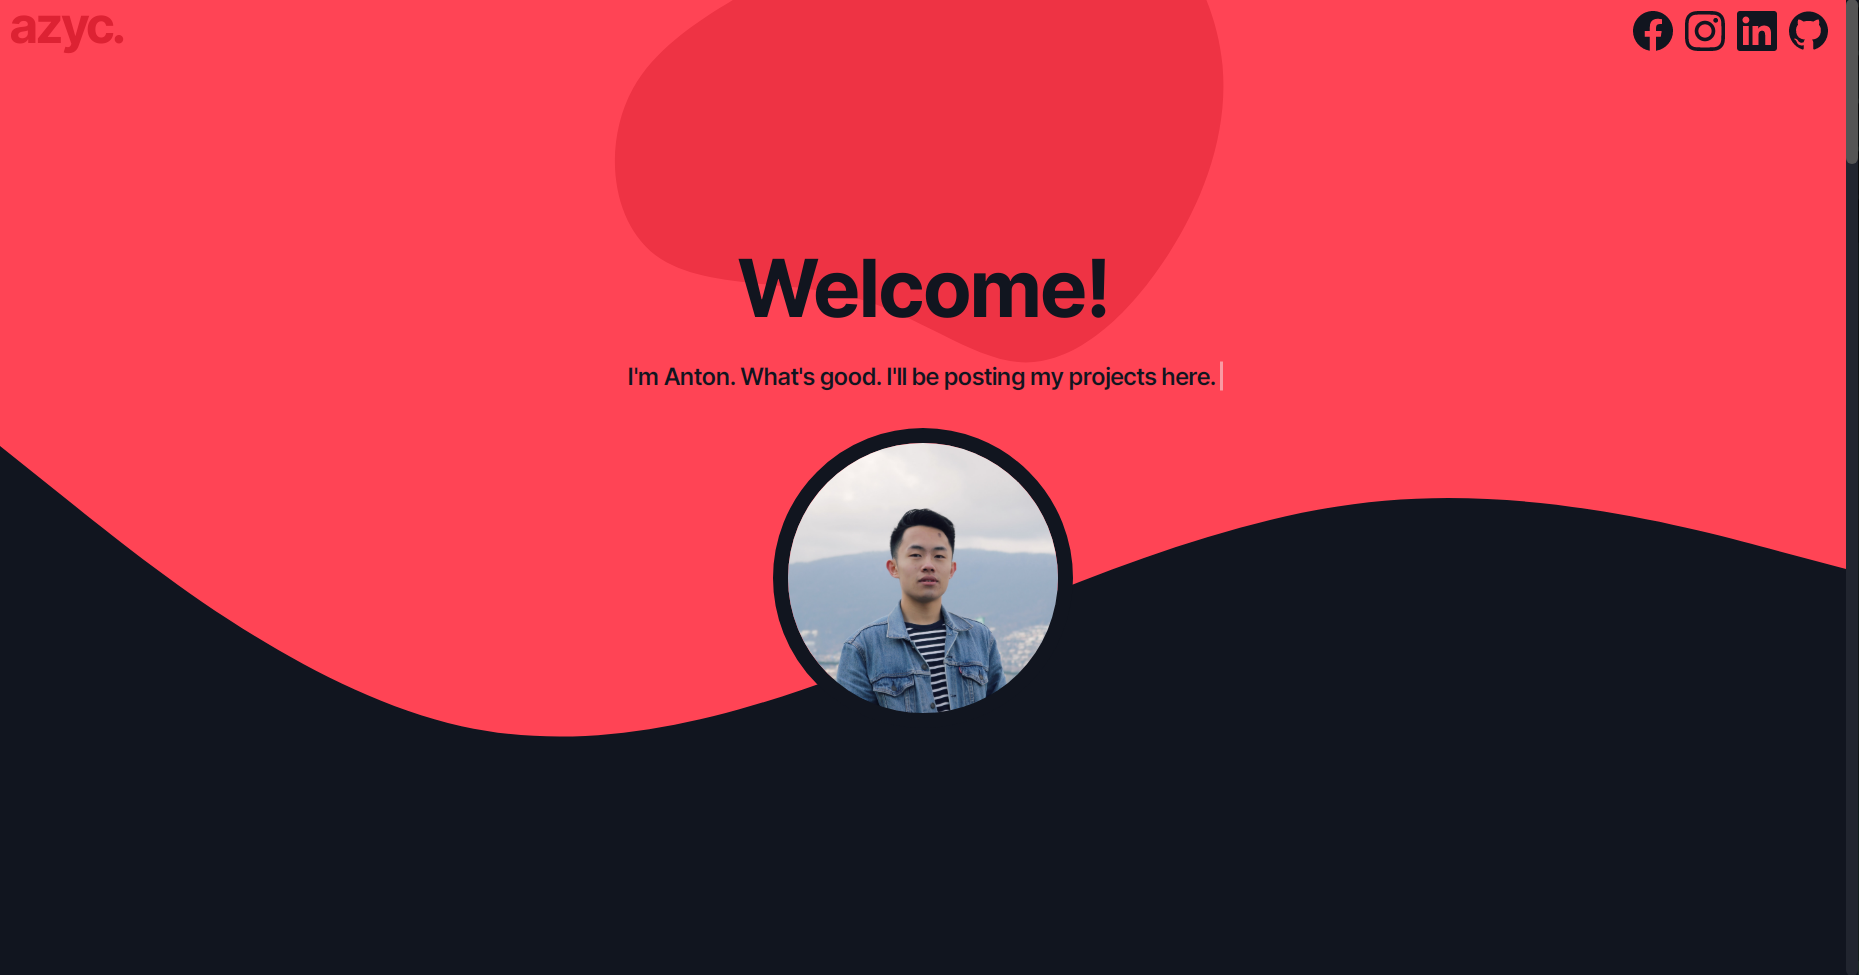
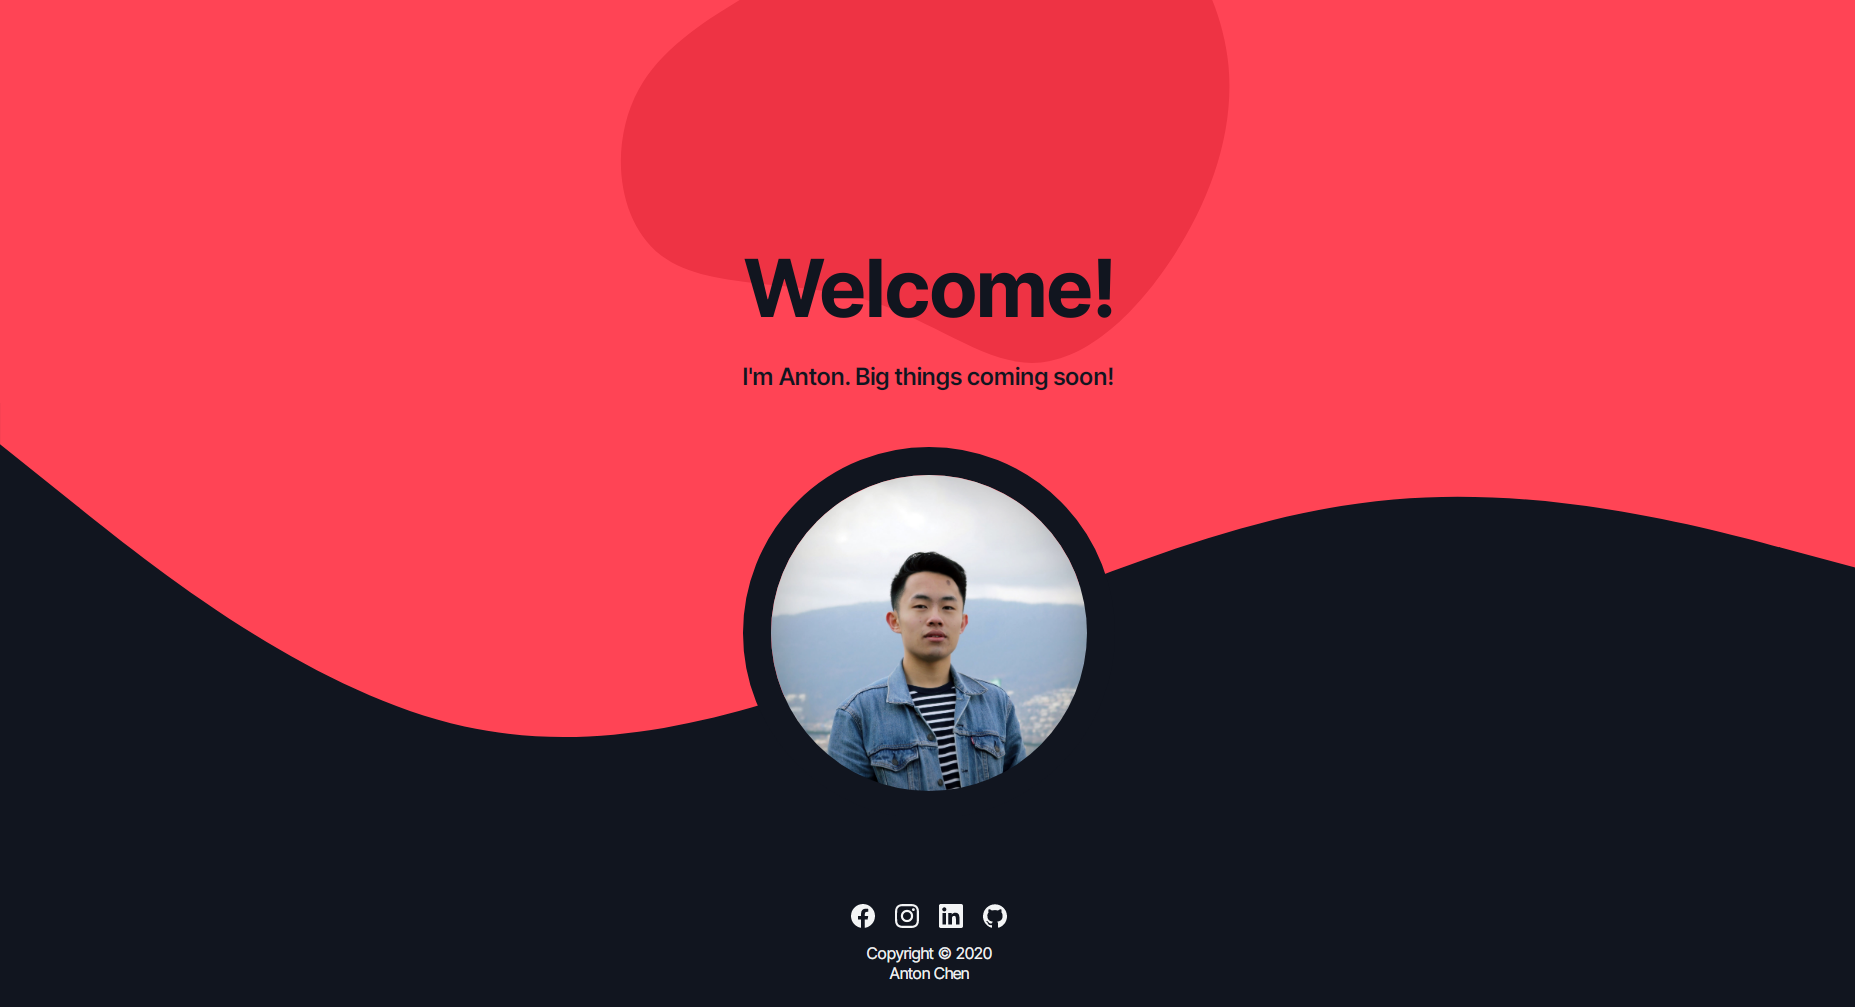
Update README.md

diff --git a/index.html b/index.html
@@ -2,7 +2,7 @@
     <html lang="en">
 
     <head>
-        <title>azyc.</title>
+        <title>Anton Chen</title>
         <link rel="shortcut icon" href="/favicon.ico">
         <meta charset="UTF-8">
         <meta name="viewport" content="width=device-width, initial-scale=1.0">

diff --git a/README.md b/README.md
@@ -1,4 +1,24 @@
-# Personal Website
-My personal website to document and display my projects, hobbies, etc.
+
+
+<!-- PROJECT LOGO -->
+<br />
+<p align="center">
+    <a href="https://github.com/azychen/rubiks-cube-solver">
+        <img src="assets/img/logo.png" alt="Logo" width="180" >
+    </a>
+
+<h2 align="center" >Personal Website</h2>
+
+  <p align="center">
+    My personal website to document and display my projects, hobbies, etc.
+    <br />
+    <a href="https://antonchen.ca">Website Link</a>
+    ·
+    <a href="https://github.com/azychen/azychen.github.io/issues">Report Bug</a>
+    ·
+    <a href="https://github.com/azychen/azychen.github.io/issues">Request Feature</a>
+  </p>
+</p>
+</br>
 
 <img src="assets/screenshots/Capture.png">
